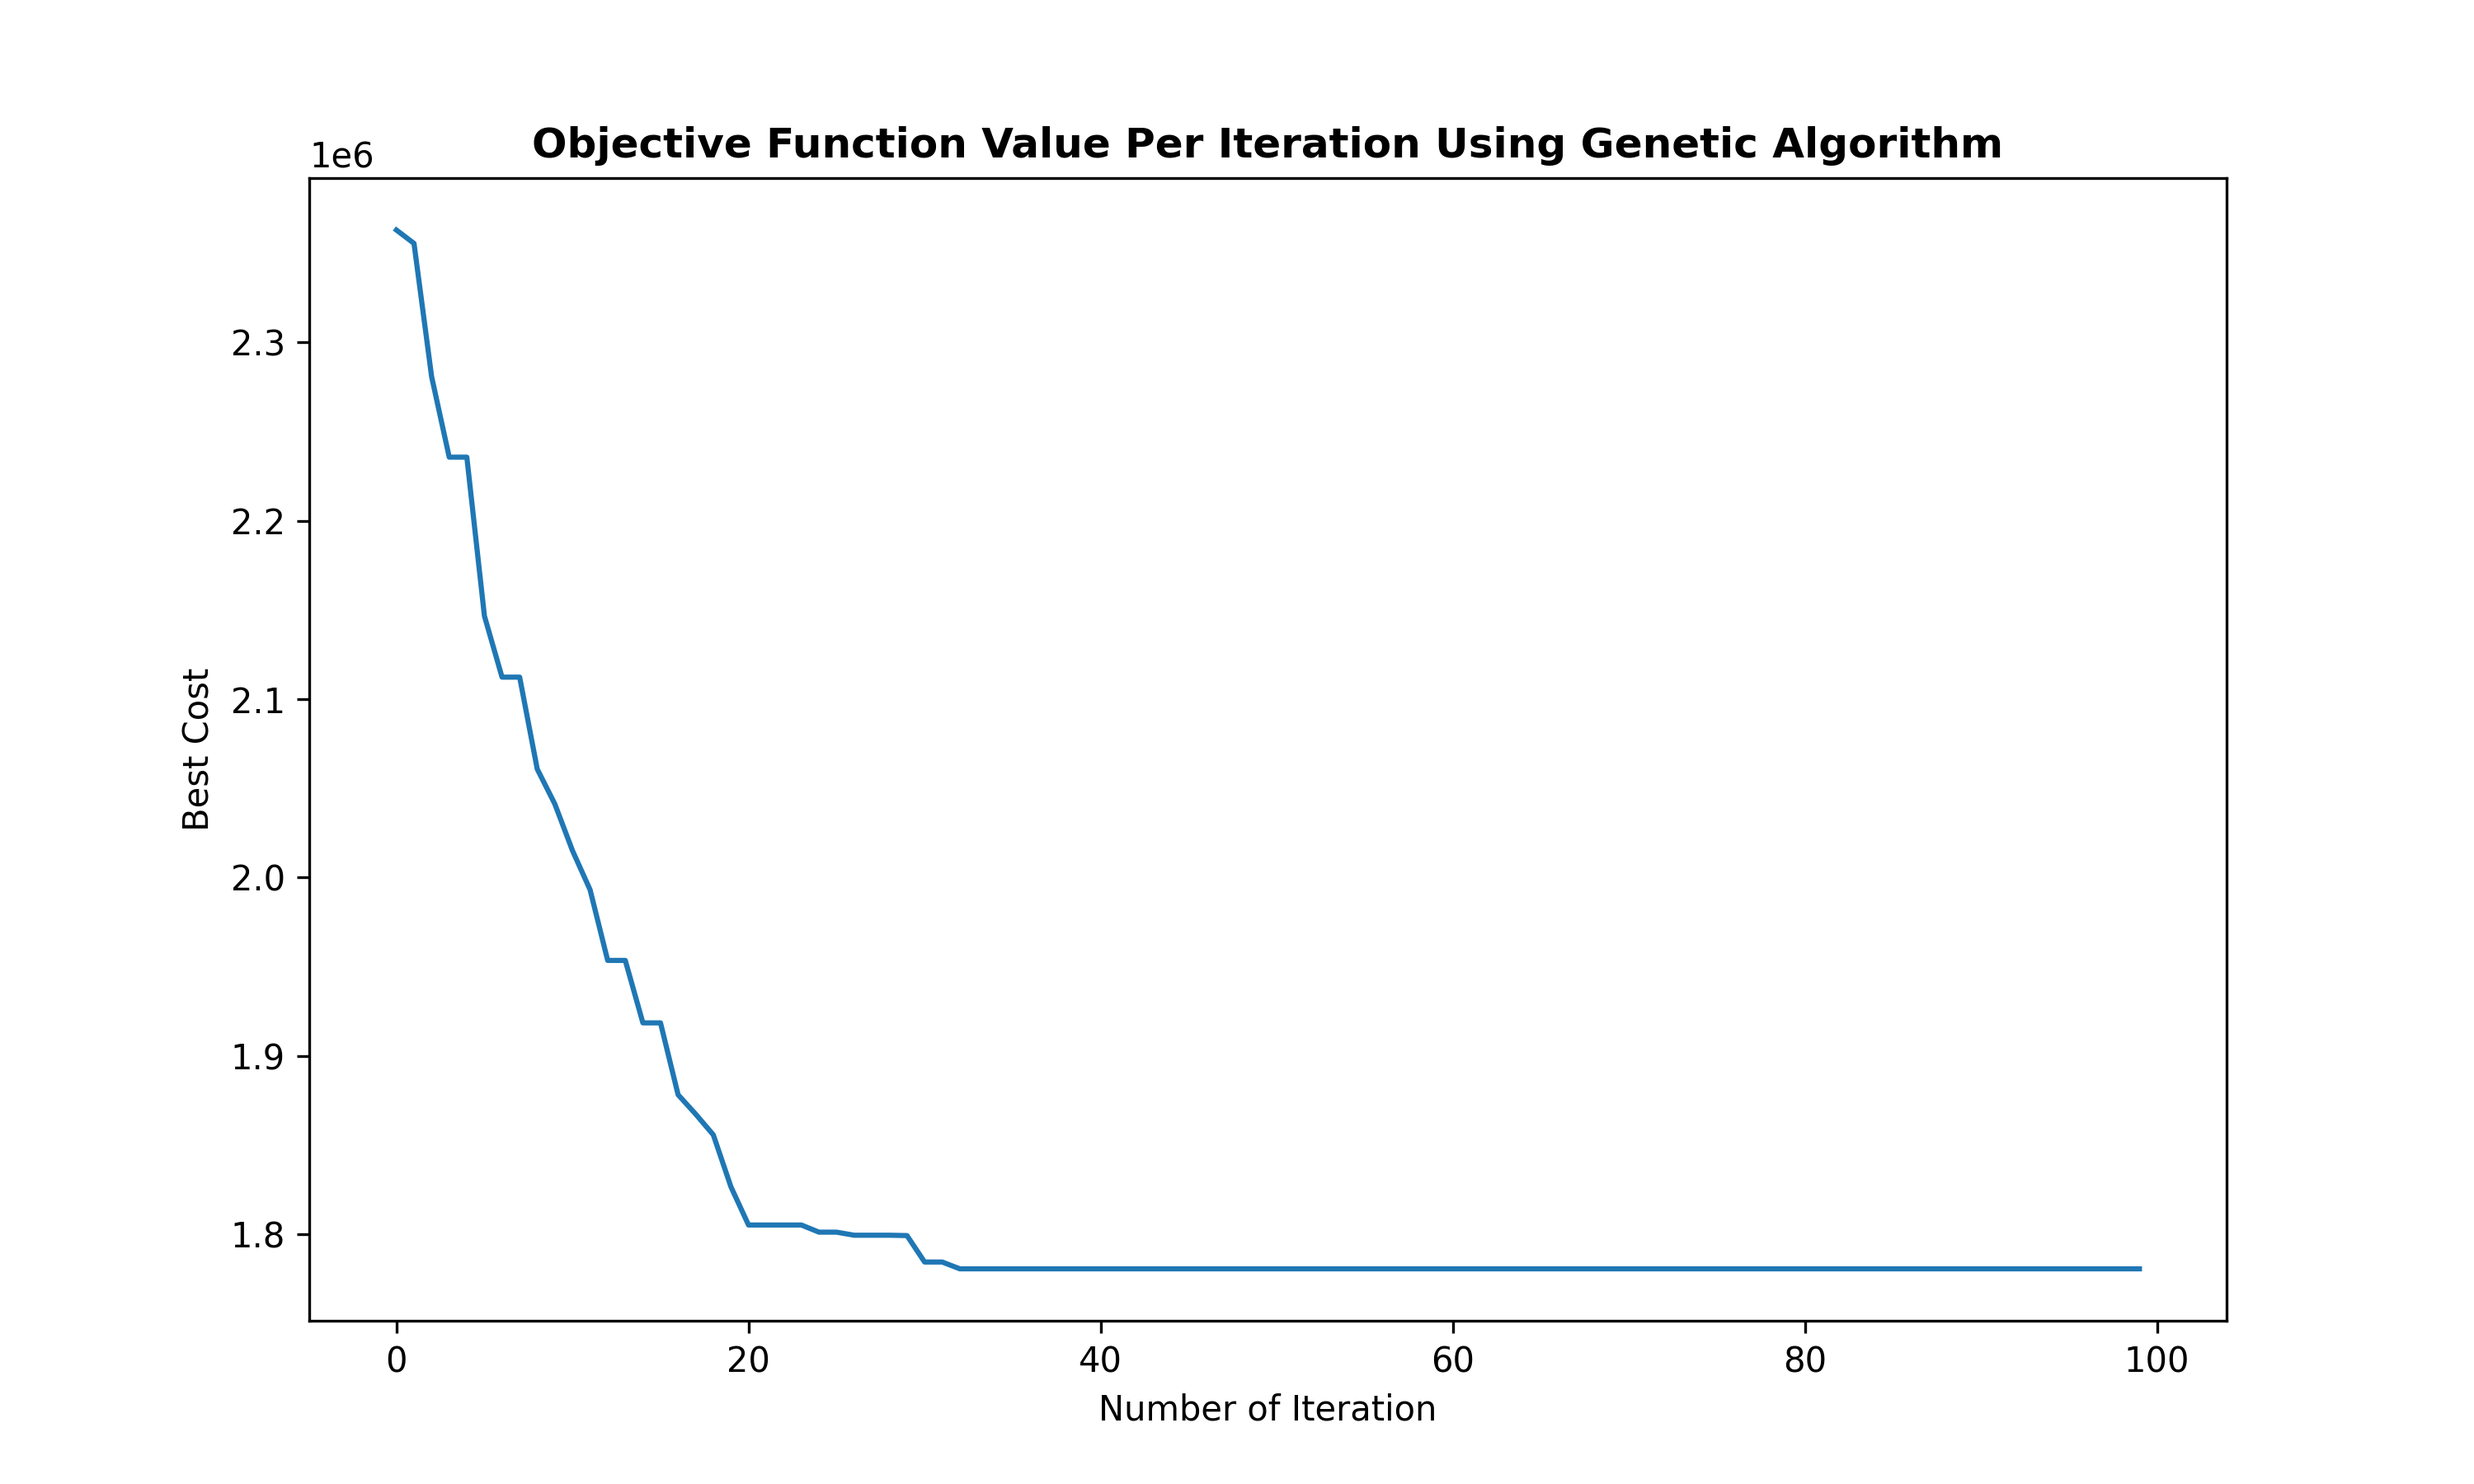
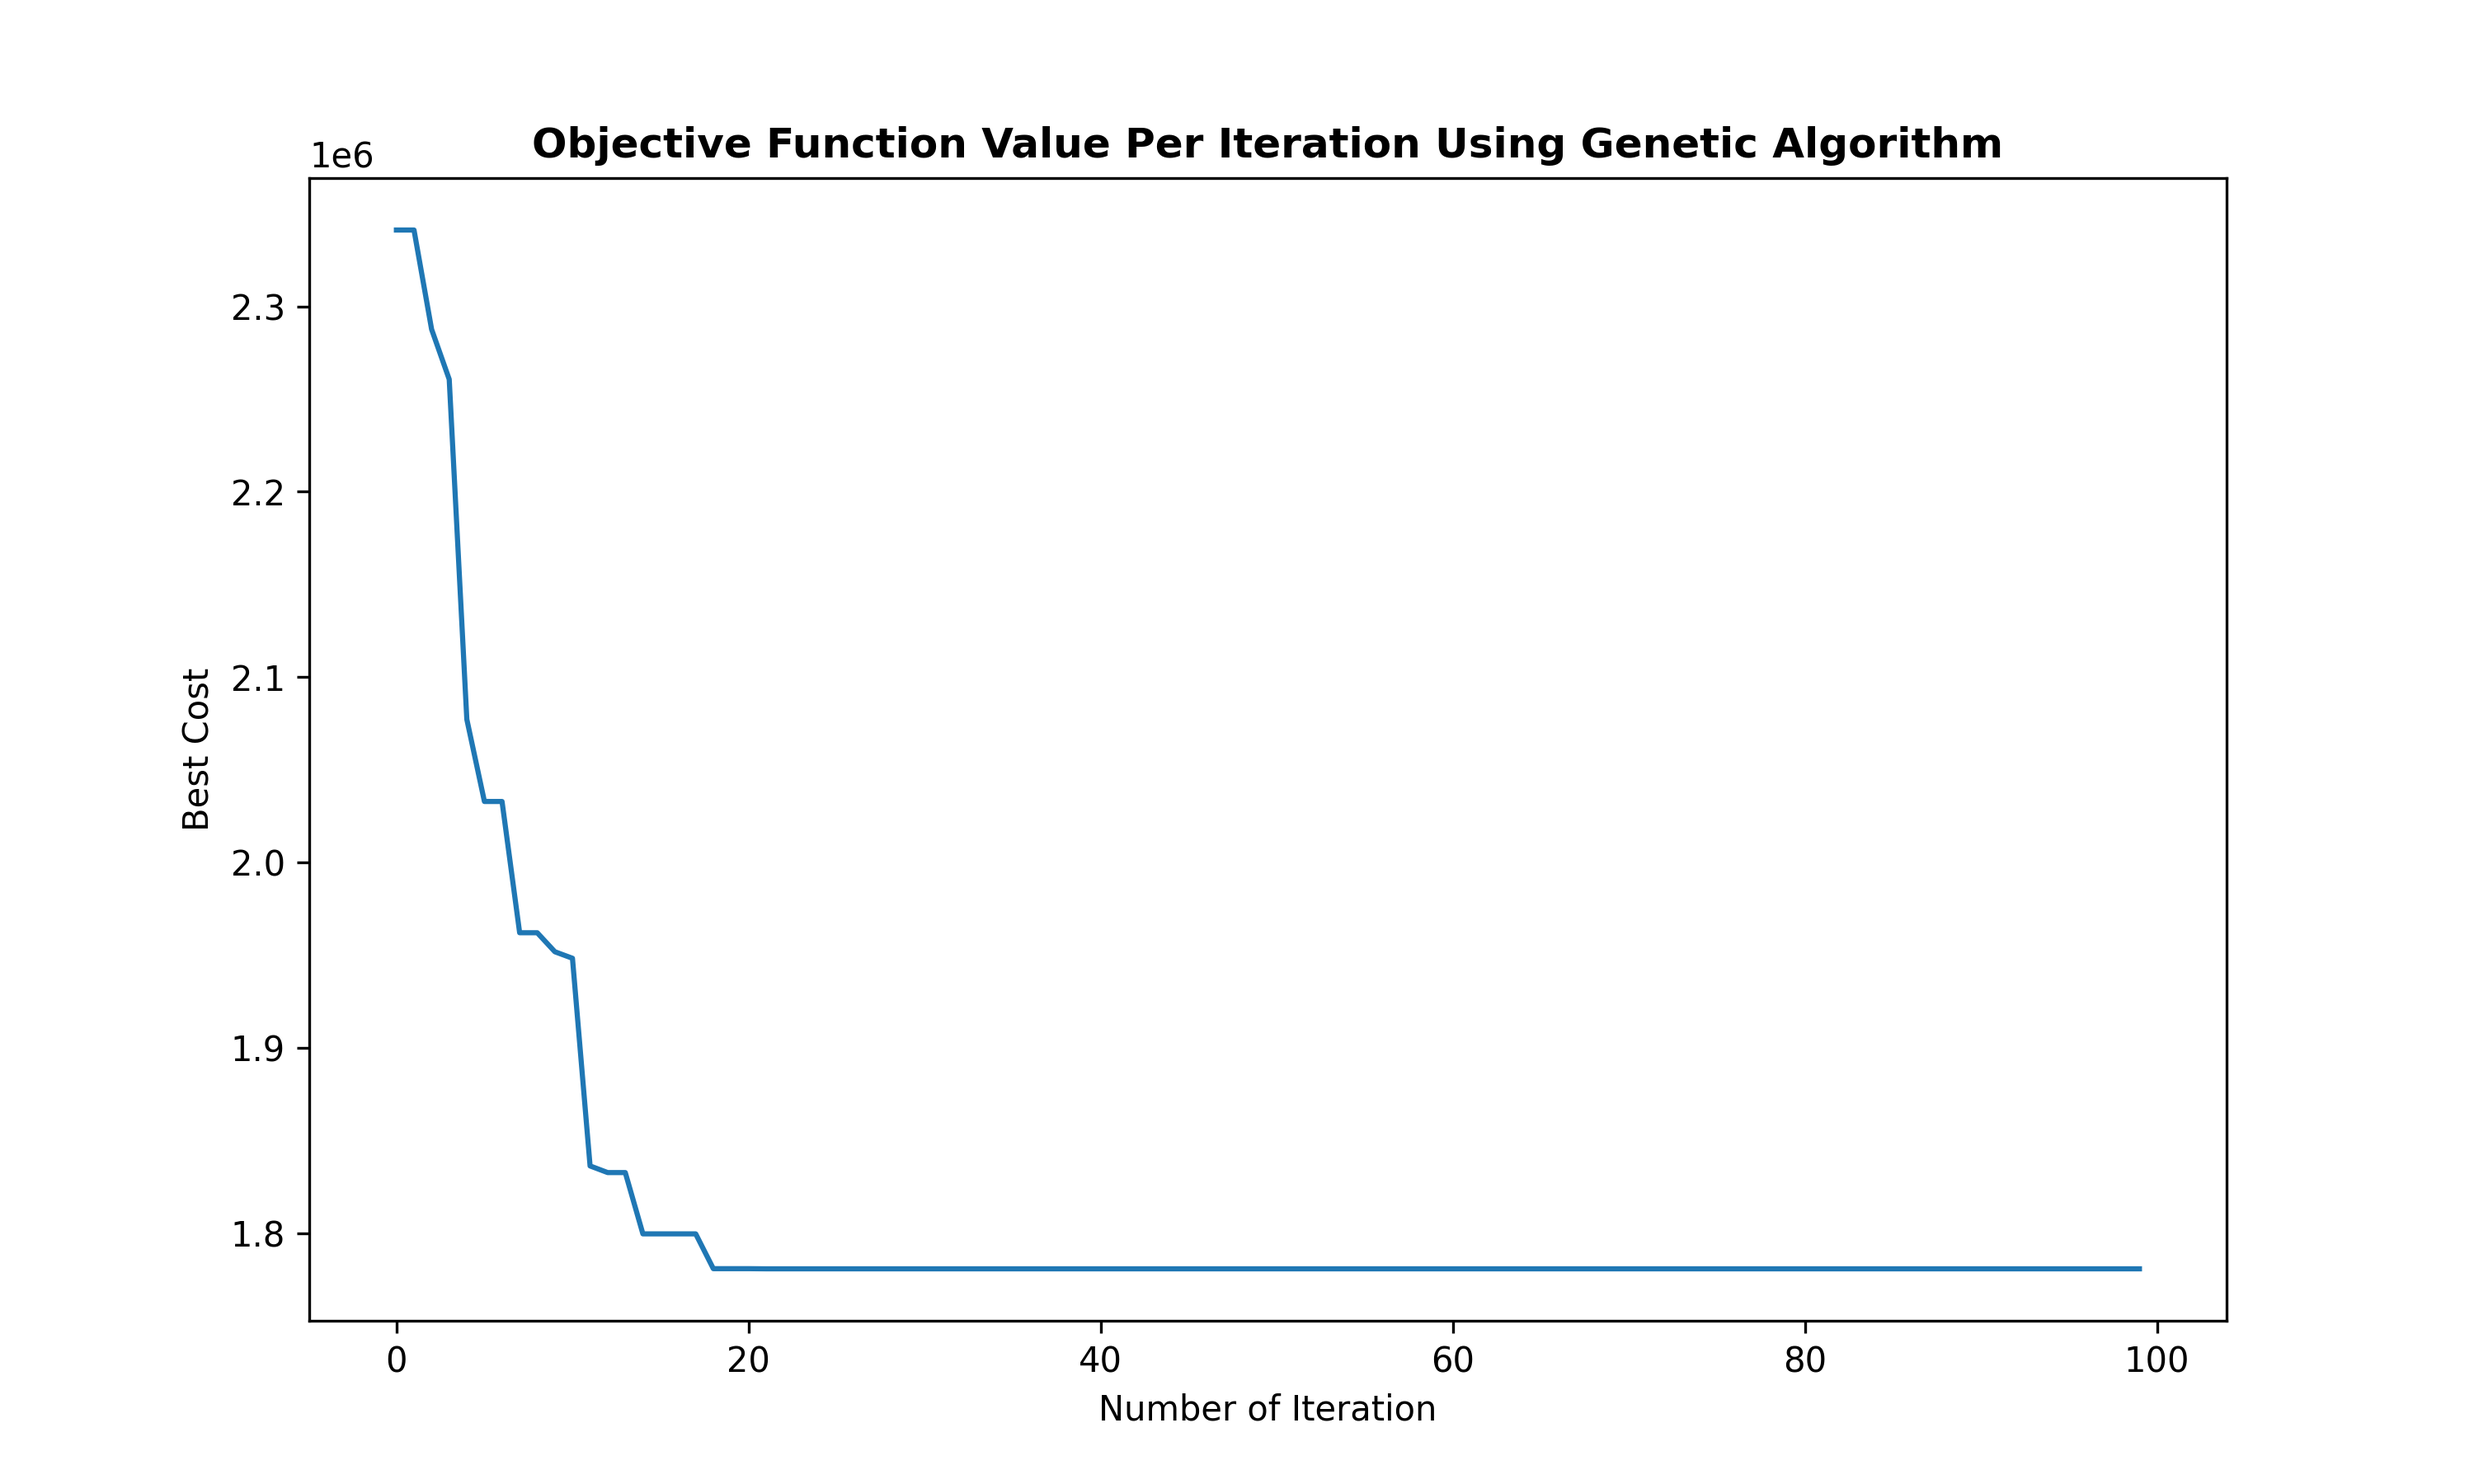
hub location allocation problem using particle swarm optimization and genetic algorithm.

diff --git a/hub_location_problem/main.py b/hub_location_problem/main.py
@@ -2,6 +2,7 @@ from evolutionary_algorithms_examples.hub_location_problem.data import Data
 from evolutionary_algorithms.genetic_algorithm import GA
 from evolutionary_algorithms_examples.hub_location_problem.hub_location_problem import HubLocationProblem
 from evolutionary_algorithms_examples.hub_location_problem.plot_solution import plot_assignment
+from evolutionary_algorithms.particle_swarm_optimization import PSO
 
 
 def main():
@@ -17,22 +18,44 @@ def main():
 
     model_data = Data.load()
 
-    type_number_of_variables = {"binary1D": [len(model_data["servers_x"])]}
+    # type_number_of_variables = {"binary1D": [len(model_data["servers_x"])]}
+
+    type_number_of_variables = {"real1D": [len(model_data["servers_x"])]}
 
     problem = HubLocationProblem()
     cost_func = problem.cost_function
 
-    solution_method = GA(cost_function=cost_func,
-                         type_number_of_variables=type_number_of_variables,
-                         max_iteration=100,
-                         number_of_population=50,
-                         parents_selection_method="roulette_wheel_selection",
-                         selection_pressure_for_roulette_wheel=7,
-                         crossover_method="uniform",
-                         crossover_percentage=0.8,
-                         mutation_percentage=0.3,
-                         mutation_rate=0.02,
-                         plot_cost_function=True)
+    # solution_method = GA(cost_function=cost_func,
+    #                      type_number_of_variables=type_number_of_variables,
+    #                      max_iteration=100,
+    #                      number_of_population=50,
+    #                      parents_selection_method="roulette_wheel_selection",
+    #                      selection_pressure_for_roulette_wheel=7,
+    #                      crossover_method="uniform",
+    #                      crossover_percentage=0.8,
+    #                      mutation_percentage=0.3,
+    #                      mutation_rate=0.02,
+    #                      plot_cost_function=True)
+    #
+    # solution_best, run_time = solution_method.run()
+    # plot_assignment(solution_best, model_data)
+    #
+    # return solution_best, run_time
+
+    solution_method = PSO(cost_function=cost_func,
+                          type_number_of_variables=type_number_of_variables,
+                          min_range_of_variables=0,
+                          max_range_of_variables=1,
+                          max_iteration=100,
+                          number_of_particles=20,
+                          inertia_rate=0.7298,
+                          inertia_damping_rate=1,
+                          personal_learning_rate=1.5,
+                          global_learning_rate=1.5,
+                          tempo_limit=True,
+                          mutation_for_real=True,
+                          gamma_for_real_mutation=0.3,
+                          plot_cost_function=True)
 
     solution_best, run_time = solution_method.run()
     plot_assignment(solution_best, model_data)

diff --git a/hub_location_problem/plot_solution.py b/hub_location_problem/plot_solution.py
@@ -1,5 +1,6 @@
 import matplotlib.pyplot as plt
 import numpy as np
+import copy
 import os
 
 
@@ -16,7 +17,14 @@ def plot_assignment(solution, model_data):
     servers_x = model_data["servers_x"]
     servers_y = model_data["servers_y"]
 
-    opened_servers = solution.position["binary1D"][0]
+    for type_of_variable in solution.position.keys():
+        if type_of_variable == "binary1D":
+            opened_servers = solution.position["binary1D"][0]
+        elif type_of_variable == "real1D":
+            opened_servers = solution.position["real1D"][0]
+            opened_servers = copy.deepcopy(opened_servers)
+            opened_servers[:, opened_servers[0, :] >= 0.5] = 1
+            opened_servers[:, opened_servers[0, :] < 0.5] = 0
 
     opened_servers_x = servers_x[np.argwhere(opened_servers[0, :] != 0)].ravel()
     opened_servers_y = servers_y[np.argwhere(opened_servers[0, :] != 0)].ravel()
@@ -34,7 +42,7 @@ def plot_assignment(solution, model_data):
 
     plt.legend()
 
-    plt.savefig("./figures/customers_servers.png")
+    plt.savefig(f"./figures/customers_servers_{type_of_variable}.png")
 
 
 

diff --git a/hub_location_problem/hub_location_problem.py b/hub_location_problem/hub_location_problem.py
@@ -1,5 +1,6 @@
 from evolutionary_algorithms_examples.hub_location_problem.data import Data
 import numpy as np
+import copy
 
 
 
@@ -12,7 +13,14 @@ class HubLocationProblem:
 
     def cost_function(self, x):
 
-        x = x["binary1D"][0]
+        for type_of_variable in x.keys():
+            if type_of_variable == "binary1D":
+                x = x["binary1D"][0]
+            elif type_of_variable == "real1D":
+                x = x["real1D"][0]
+                x = copy.deepcopy(x)
+                x[:, x[0, :] >= 0.5] = 1
+                x[:, x[0, :] < 0.5] = 0
 
         x_inf = np.copy(x)
 
